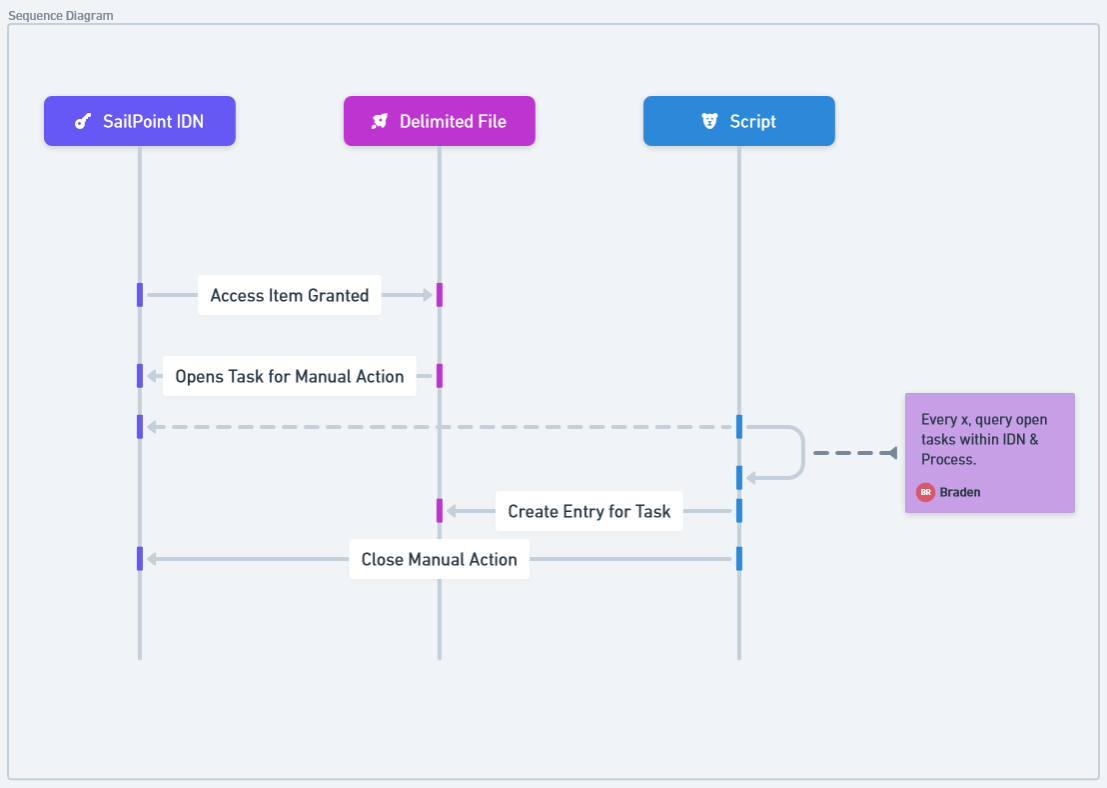
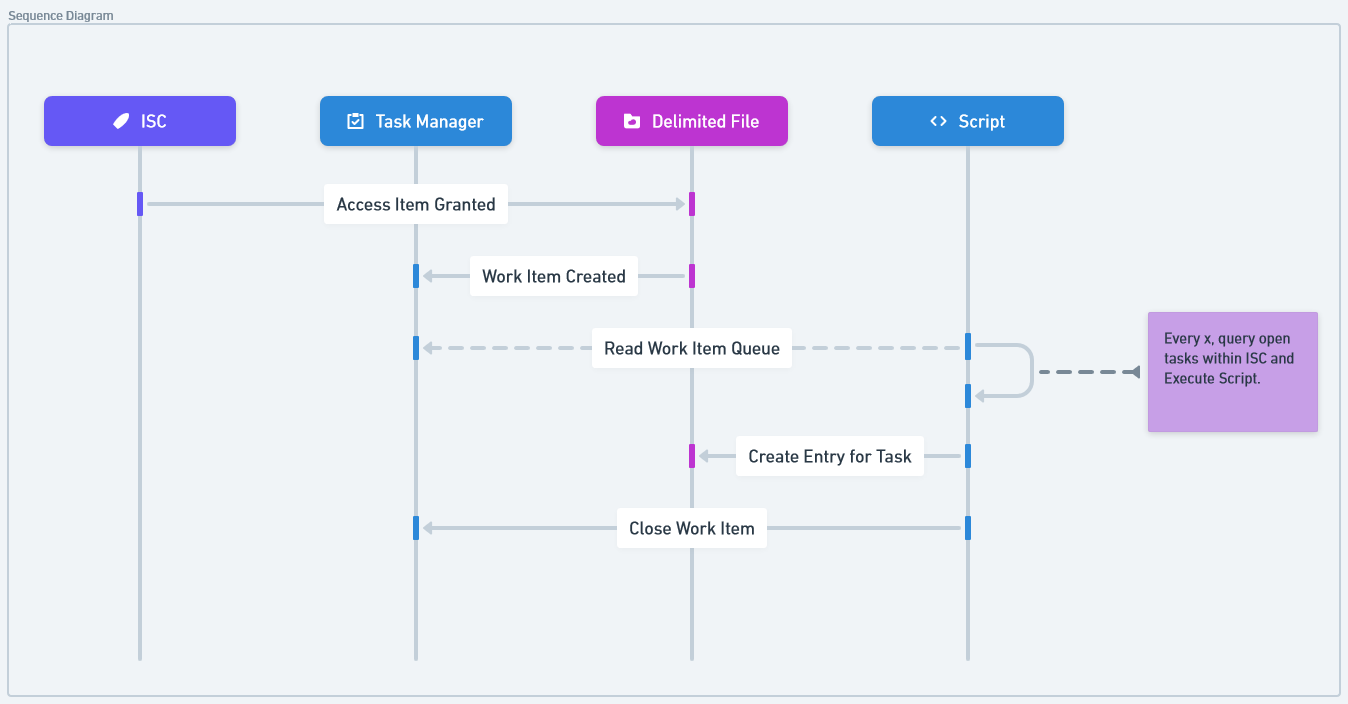
Refactor and Readme

diff --git a/readme.md b/readme.md
@@ -12,11 +12,13 @@ This guide offers a comprehensive solution for executing PowerShell scripts with
 
 # Solution
 ![Process Flow](https://github.com/bcariaga-cdw/queue-scripts/blob/main/images/Task%20Queue%20for%20Scripts%20-%20Conceptual%20Role%20Add%20Process%20Flow.png)
+## Sequence
+![Sequence Diagram](https://github.com/bcariaga-cdw/queue-scripts/blob/main/images/Task%20Queue%20for%20Scripts%20-%20Sequence%20Diagram.png)
 #### Delimited File Source
 The delimited file source serves as the foundation for event triggering and auditing within ISC for this solution. It will store accounts for any user who has been processed and will be automatically updated and maintained by the PowerShell script to ensure auditability.
 
 Additionally, the delimited file source will include an entitlement for each script required to run. For instance, if a script for mailbox creation is needed, an entitlement such as "Enable Mailbox" will be included. 
-#### Work Items
+#### ISC (Work Items)
 When an entitlement is added to a user in a delimited file source, ISC will automatically create a work item for the manual addition of this entitlement, effectively establishing a queue for the required script executions. This work item queue will serve as the dataset for the script, indicating what needs to be processed.
 #### PowerShell Script
 The PowerShell script will be scheduled to run periodically to query open work items in the ISC Queue. Based on the details of these work items, the script will execute and log auditing information to an account entry in the delimited file source.
@@ -25,15 +27,92 @@ You can schedule the PowerShell script using a Cron Job or the built-in Windows 
 
 # Step-by-Step Usage
 ## 1. Setup a Delimited File Source
-## 2. Setup PowerShell Script
+A delimited file source is necessary to setup for this solution. Begin by creating a new source with a delimited file connector type. For ease of setup, an export of the source is provided in the `imports` folder to be directly imported to a tenant using SP-Config. If setting up manually, the source will need the following configuration:
+
+**Account Schema** 
+|Attribute Name|Multivalued|Entitlement|
+|--------------|-----------|-----------|
+|id|No|No|
+|actions|Yes|Yes|
+|statuses|Yes|No|
+|transactions|Yes|No|
+|errors|Yes|No|
+
+**Entitlement Schema**
+Create a new entitlement type called "action" with a single attribute called "name". 
+
+**Correlation**
+|Identity Attribute|Operation|Account Attribute|
+|------------------|---------|-----------------|
+|Username|equals|id|
+
+**Create Provisioning Policy**
+|Account Attribute|Identity Attribute|
+|-----------------|------------------|
+|id|uid|
+
+**Entitlement Upload**
+Upload the actions you wish to use for the PowerShell script execution. For example "handleHomeDrive". 
+
+## 2. Setup PowerShell 
+To setup the PowerShell portion, download and place the folder `powershell-script` on a Windows machine. This can easily be placed onto the IQService machine. Ensure your machine has the SailPoint PowerShell SDK installed and meets the mimumum requirements (https://developer.sailpoint.com/docs/tools/sdk/powershell).
+### 2.1 Config.json File
+The `config.json` file included will need to be configured for your specific environment. Here is an example of the file: 
+```json
+{
+    "General": {
+        "tenant": "<tenant-name>",
+        "domain": "identitynow",
+        "sdkVersion": "1.3.0",
+        "logFileName": "log",
+        "logLevel": 3
+    },
+    "Authentication": {
+        "<tenant-name>": {
+            "clientID": "<client-id>",
+            "clientSecret": "<client-secret-encrypted>"
+        }
+    },
+    "Script": {
+        "sourceId": "<source-id-delimited-file-source>",
+        "applicationName": "<application-name-without-[source]>",
+        "actions": {
+            "emailScript": "emailScript.ps1",
+            "homeDriveScript": "homeDriveScript.ps1",
+            "terminationScript": "terminationScript.ps1",
+            "template": "template.ps1"
+        }
+    }
+}
+```
+The General portion includes the tenant to connect to and the log settings. You can change the name of the log file and the log level. The log levels supported are: 0 to Disable Logging, 1 for Error only, 2 for Error & Info, 3 for Error, Info, & Debug.
+
+The Authentication portion is where to define the Personal Access Token for your tenant. The key must match the tenant name configured in the General section. The current script uses Windows Credential Manager to encrypt the secret so it is not shown in plain text. To configure this follow these steps: 
+1. Run PowerShell as User Exectuing the Script. 
+2. Run the following command: `ConvertFrom-SecureString -SecureString $(Read-Host -AsSecureString)`
+3. Paste the secret and copy the encrypted value. 
+4. Enter the encrypted value in the config.json. 
+
+This encryption process can be easily modified to suite your preferred method by modifying the `dist/util/Load-Token.ps1` file. 
+
+The Script portion is where you will define your source id and application name of the source that was configured for this process. These fields are both necessary for the script to identify which work items relate to this process. The actions enable you to directly map the names of the entitlements on the source to the scripts located in the PowerShell Task Manager. 
+### 2.2 Set the Path in the main.ps1 file
+At the top of the main.ps1 file, set the path for where this folder resides on your system.
+For Example: `$script:SCRIPT_PATH = "C:\SailPoint\Scripts\powershell-task-manager"`
+### 2.3 Windows Task Scheduler
+Use the Windows Task Scheduler or another scheduling service to run the `main.ps1` periodically. Recommended to run every 5 minutes. 
+
+Note: Ensure that this is set to run using a PowerShell version 6.2 or greater.
 ## 3. Setup Custom PowerShell Scripts
 
-# Use Cases
+
+# Example Use Cases
 ## Lifecycle: Remove Mailbox on Termination
 ## Role Assignment: Active Directory After Creation Enables Mailbox
 ## Workflow: Name Change
 
 # Drawbacks
+This solution is unorthodox for the ISC architecture and does contain a few drawbacks: 
 - Potentially misleading audit logs for entitlements associated with the delimited file source.
 - Script execution audit events appear as an account on an identity, potentially leading to confusion.
 - Unconventional use of work items, sources, and accounts.
